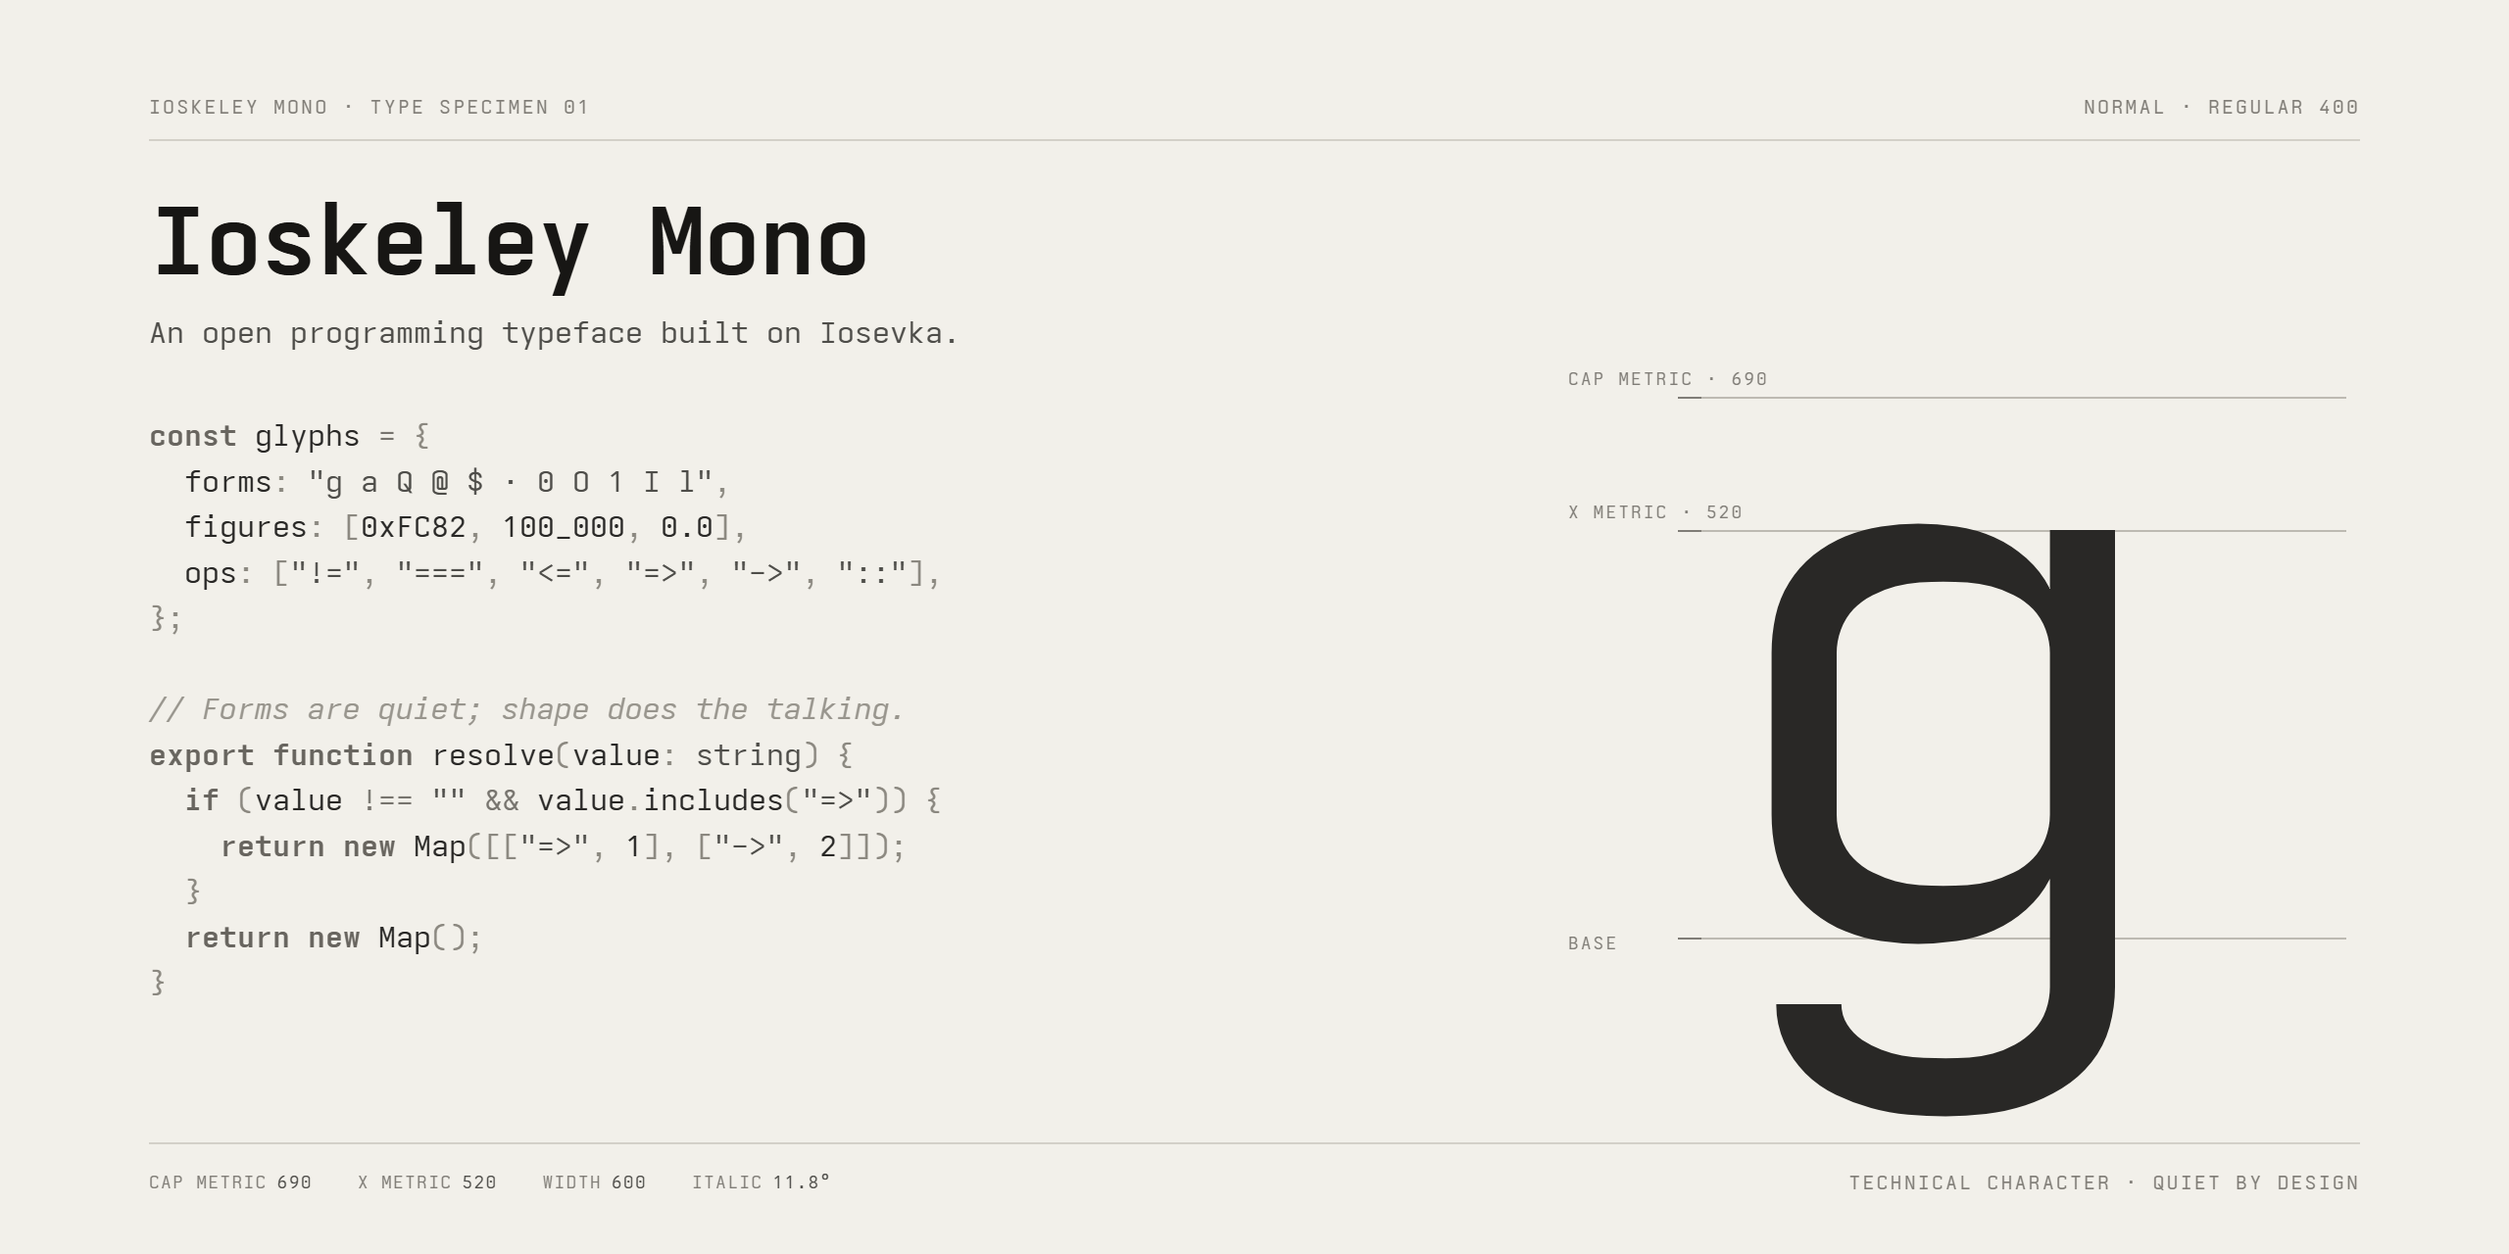
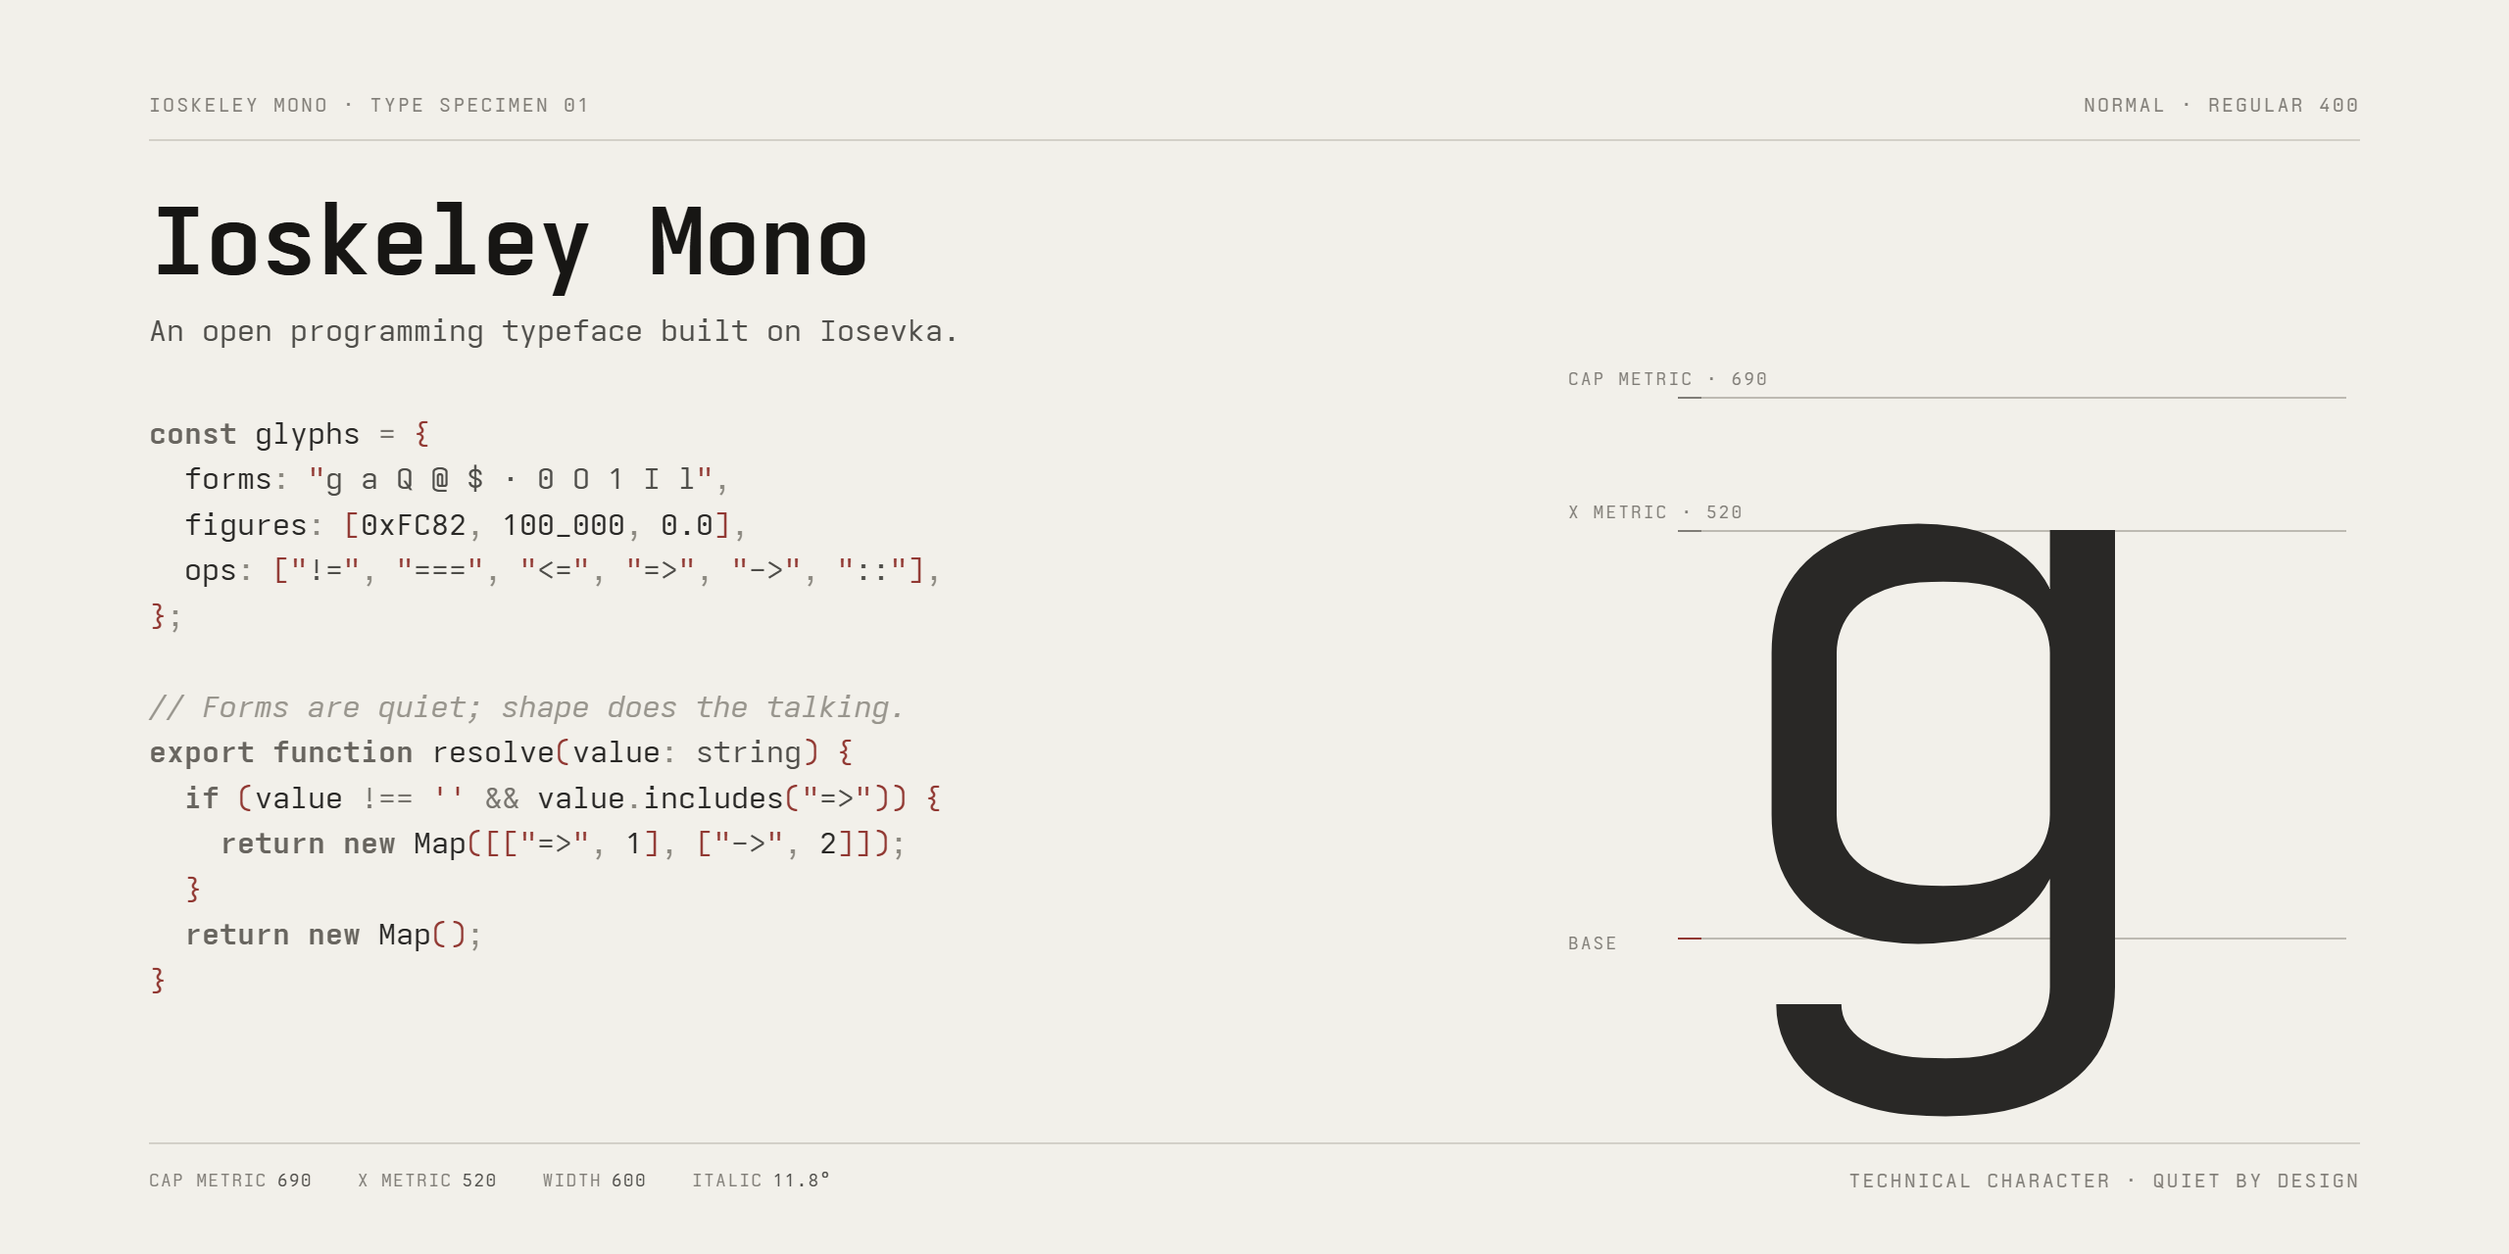
docs: add Ioskeley proof-red signature
Lock Proof Red as the identity's one chromatic exception. Structural
punctuation ({ } [ ] ( ) " ' ) takes the accent in the branded Social
Preview specimen, alongside the single baseline registration tick on the
measurement canvas. Commas, colons and semicolons, and every content role,
stay monochrome.

The Origins comparison plates remain purely monochrome so the typeface
study carries no unrelated colour variable.

diff --git a/artwork/social-preview.html b/artwork/social-preview.html
@@ -45,6 +45,10 @@
     .keyword { color: var(--keyword); font-weight: 700; }
     .operator { color: var(--operator); }
     .punctuation { color: var(--punctuation); }
+    /* Proof Red is an exception to the monochrome hierarchy, never a second
+       palette. Only structural punctuation takes it; the content a delimiter
+       encloses keeps its normal monochrome role. */
+    .punctuation.proof-red { color: var(--proof-red); }
     .comment { color: var(--comment); font-style: italic; }
     .measure { width: 405px; height: 465px; align-self: center; z-index: 0; }
     /* The measurement diagram is drawn to a canvas, not to SVG <text>. html2canvas
@@ -74,19 +78,19 @@
           <section class="copy">
             <h2 class="title">Ioskeley Mono</h2>
             <p class="tagline">An open programming typeface built on Iosevka.</p>
-            <pre class="code"><span class="keyword">const</span> <span class="identifier">glyphs</span> <span class="operator">=</span> <span class="punctuation">{</span>
-  <span class="identifier">forms</span><span class="punctuation">:</span> <span class="secondary">"g a Q @ $ · 0 O 1 I l"</span><span class="punctuation">,</span>
-  <span class="identifier">figures</span><span class="punctuation">:</span> <span class="punctuation">[</span><span class="identifier">0xFC82</span><span class="punctuation">,</span> <span class="identifier">100_000</span><span class="punctuation">,</span> <span class="identifier">0.0</span><span class="punctuation">]</span><span class="punctuation">,</span>
-  <span class="identifier">ops</span><span class="punctuation">:</span> <span class="punctuation">[</span><span class="secondary">"!="</span><span class="punctuation">,</span> <span class="secondary">"==="</span><span class="punctuation">,</span> <span class="secondary">"&lt;="</span><span class="punctuation">,</span> <span class="secondary">"=&gt;"</span><span class="punctuation">,</span> <span class="secondary">"-&gt;"</span><span class="punctuation">,</span> <span class="secondary">"::"</span><span class="punctuation">]</span><span class="punctuation">,</span>
-<span class="punctuation">}</span><span class="punctuation">;</span>
+            <pre class="code"><span class="keyword">const</span> <span class="identifier">glyphs</span> <span class="operator">=</span> <span class="punctuation proof-red">{</span>
+  <span class="identifier">forms</span><span class="punctuation">:</span> <span class="punctuation proof-red">"</span><span class="secondary">g a Q @ $ · 0 O 1 I l</span><span class="punctuation proof-red">"</span><span class="punctuation">,</span>
+  <span class="identifier">figures</span><span class="punctuation">:</span> <span class="punctuation proof-red">[</span><span class="identifier">0xFC82</span><span class="punctuation">,</span> <span class="identifier">100_000</span><span class="punctuation">,</span> <span class="identifier">0.0</span><span class="punctuation proof-red">]</span><span class="punctuation">,</span>
+  <span class="identifier">ops</span><span class="punctuation">:</span> <span class="punctuation proof-red">[</span><span class="punctuation proof-red">"</span><span class="secondary">!=</span><span class="punctuation proof-red">"</span><span class="punctuation">,</span> <span class="punctuation proof-red">"</span><span class="secondary">===</span><span class="punctuation proof-red">"</span><span class="punctuation">,</span> <span class="punctuation proof-red">"</span><span class="secondary">&lt;=</span><span class="punctuation proof-red">"</span><span class="punctuation">,</span> <span class="punctuation proof-red">"</span><span class="secondary">=&gt;</span><span class="punctuation proof-red">"</span><span class="punctuation">,</span> <span class="punctuation proof-red">"</span><span class="secondary">-&gt;</span><span class="punctuation proof-red">"</span><span class="punctuation">,</span> <span class="punctuation proof-red">"</span><span class="secondary">::</span><span class="punctuation proof-red">"</span><span class="punctuation proof-red">]</span><span class="punctuation">,</span>
+<span class="punctuation proof-red">}</span><span class="punctuation">;</span>
 
 <span class="comment">// Forms are quiet; shape does the talking.</span>
-<span class="keyword">export function</span> <span class="identifier">resolve</span><span class="punctuation">(</span>value<span class="punctuation">:</span> <span class="secondary">string</span><span class="punctuation">)</span> <span class="punctuation">{</span>
-  <span class="keyword">if</span> <span class="punctuation">(</span>value <span class="operator">!==</span> <span class="secondary">""</span> <span class="operator">&amp;&amp;</span> value<span class="punctuation">.</span>includes<span class="punctuation">(</span><span class="secondary">"=&gt;"</span><span class="punctuation">))</span> <span class="punctuation">{</span>
-    <span class="keyword">return</span> <span class="keyword">new</span> <span class="identifier">Map</span><span class="punctuation">([[</span><span class="secondary">"=&gt;"</span><span class="punctuation">,</span> <span class="identifier">1</span><span class="punctuation">]</span><span class="punctuation">,</span> <span class="punctuation">[</span><span class="secondary">"-&gt;"</span><span class="punctuation">,</span> <span class="identifier">2</span><span class="punctuation">]])</span><span class="punctuation">;</span>
-  <span class="punctuation">}</span>
-  <span class="keyword">return</span> <span class="keyword">new</span> <span class="identifier">Map</span><span class="punctuation">()</span><span class="punctuation">;</span>
-<span class="punctuation">}</span></pre>
+<span class="keyword">export function</span> <span class="identifier">resolve</span><span class="punctuation proof-red">(</span>value<span class="punctuation">:</span> <span class="secondary">string</span><span class="punctuation proof-red">)</span> <span class="punctuation proof-red">{</span>
+  <span class="keyword">if</span> <span class="punctuation proof-red">(</span>value <span class="operator">!==</span> <span class="punctuation proof-red">'</span><span class="punctuation proof-red">'</span> <span class="operator">&amp;&amp;</span> value<span class="punctuation">.</span>includes<span class="punctuation proof-red">(</span><span class="punctuation proof-red">"</span><span class="secondary">=&gt;</span><span class="punctuation proof-red">"</span><span class="punctuation proof-red">)</span><span class="punctuation proof-red">)</span> <span class="punctuation proof-red">{</span>
+    <span class="keyword">return</span> <span class="keyword">new</span> <span class="identifier">Map</span><span class="punctuation proof-red">(</span><span class="punctuation proof-red">[</span><span class="punctuation proof-red">[</span><span class="punctuation proof-red">"</span><span class="secondary">=&gt;</span><span class="punctuation proof-red">"</span><span class="punctuation">,</span> <span class="identifier">1</span><span class="punctuation proof-red">]</span><span class="punctuation">,</span> <span class="punctuation proof-red">[</span><span class="punctuation proof-red">"</span><span class="secondary">-&gt;</span><span class="punctuation proof-red">"</span><span class="punctuation">,</span> <span class="identifier">2</span><span class="punctuation proof-red">]</span><span class="punctuation proof-red">]</span><span class="punctuation proof-red">)</span><span class="punctuation">;</span>
+  <span class="punctuation proof-red">}</span>
+  <span class="keyword">return</span> <span class="keyword">new</span> <span class="identifier">Map</span><span class="punctuation proof-red">(</span><span class="punctuation proof-red">)</span><span class="punctuation">;</span>
+<span class="punctuation proof-red">}</span></pre>
           </section>
           <div class="measure" role="img" aria-label="Ioskeley single-storey g shown against the declared cap, x-height and baseline metrics">
             <canvas class="measure-canvas" width="810" height="930"></canvas>
@@ -103,12 +107,15 @@
 
   <script>
     /* `primary` carries body ink; `title` is the rare-emphasis tone used only by
-       the product title. `punctuation` is applied in the Origins code studies;
-       the `selection` role from the identity token table is not yet used by any
-       production plate, so it is not defined here. */
+       the product title. `proof-red` is reserved for structural punctuation and
+       the single baseline registration tick, and is deliberately absent from the
+       Origins comparison plates, which stay purely monochrome so that a typeface
+       comparison carries no unrelated colour variable. The `selection` role from
+       the identity token table is not used by any production plate, so it is not
+       defined here. */
     const palettes = {
-      dark: { name: "Dark", canvas: "#101010", primary: "#D8D5CE", secondary: "#B8B5AF", grammar: "#7E7C77", keyword: "#74726E", operator: "#74726E", punctuation: "#686763", comment: "#5F5D58", title: "#ECE9E2", rule: "#343330", guide: "#4A4843", file: "SocialPreview.png" },
-      light: { name: "Light", canvas: "#F2F0EA", primary: "#292826", secondary: "#4E4D49", grammar: "#807D77", keyword: "#68655F", operator: "#77746E", punctuation: "#8B8880", comment: "#98958D", title: "#171614", rule: "#D3D0C8", guide: "#BDBAB2", file: "SocialPreview-Light.png" }
+      dark: { name: "Dark", canvas: "#101010", primary: "#D8D5CE", secondary: "#B8B5AF", grammar: "#7E7C77", keyword: "#74726E", operator: "#74726E", punctuation: "#686763", comment: "#5F5D58", "proof-red": "#B04A43", title: "#ECE9E2", rule: "#343330", guide: "#4A4843", file: "SocialPreview.png" },
+      light: { name: "Light", canvas: "#F2F0EA", primary: "#292826", secondary: "#4E4D49", grammar: "#807D77", keyword: "#68655F", operator: "#77746E", punctuation: "#8B8880", comment: "#98958D", "proof-red": "#913832", title: "#171614", rule: "#D3D0C8", guide: "#BDBAB2", file: "SocialPreview-Light.png" }
     };
 
     const REQUIRED_FACES = [
@@ -187,8 +194,11 @@
         ctx.moveTo(MEASURE.lineX1, guide.y + .5); ctx.lineTo(MEASURE.lineX2, guide.y + .5);
         ctx.stroke();
       }
-      ctx.strokeStyle = ink('grammar');
+      // The baseline tick is the plate's one registration mark and takes Proof
+      // Red; the cap and x-height ticks stay grammar grey, so the highlight reads
+      // as a deliberate reference to the baseline rather than a general tint.
       for (const guide of guides) {
+        ctx.strokeStyle = guide.below ? ink('proof-red') : ink('grammar');
         ctx.beginPath();
         ctx.moveTo(MEASURE.tickX1, guide.y + .5); ctx.lineTo(MEASURE.tickX2, guide.y + .5);
         ctx.stroke();

diff --git a/docs/VISUAL_IDENTITY.md b/docs/VISUAL_IDENTITY.md
@@ -1,8 +1,9 @@
 # Ioskeley visual identity
 
 Ioskeley is its own typeface identity: a monochrome, typography-led technical
-publication. **Grammar recedes; content remains.** The font—not a brand hue—is
-the identifying color. Preserve generous negative space, precise alignment,
+publication, with Proof Red as a single, strictly governed exception.
+**Grammar recedes; content remains.** The font—not a brand hue—is the
+identifying color. Preserve generous negative space, precise alignment,
 large/small type contrast, and only a few deliberate rules. Avoid UI panels,
 editor chrome, gradients, glows, decorative grids, and hue-based syntax.
 
@@ -18,6 +19,7 @@ editor chrome, gradients, glows, decorative grids, and hue-based syntax.
 | Operators | `#74726E` | `#77746E` |
 | Punctuation | `#686763` | `#8B8880` |
 | Comments | `#5F5D58` italic | `#98958D` italic |
+| Proof Red | `#B04A43` | `#913832` |
 | Rare emphasis | `#ECE9E2` | `#171614` |
 | Rule | `#343330` | `#D3D0C8` |
 | Guide | `#4A4843` | `#BDBAB2` |
@@ -25,7 +27,8 @@ editor chrome, gradients, glows, decorative grids, and hue-based syntax.
 
 Keep emphasis rare. Use primary/secondary for identifiers and meaningful values;
 use grammar tones for keywords, operators, and punctuation. In light mode grammar
-moves toward the paper. Do not add a branding hue by default.
+moves toward the paper. Proof Red is the only non-neutral colour in the system and
+is governed separately below; no other branding hue is permitted.
 
 Comments use the real italic face in both modes, never a synthesised oblique.
 Light-mode punctuation and comments sit closer to primary than in the previous
@@ -34,6 +37,54 @@ revision so that a 14–15 px italic comment stays readable on `#F2F0EA`.
 `Selection` is a reserved role: no production plate uses it yet, so the artwork
 generators do not define it. If a plate ever needs a selection state, use this
 token rather than inventing a new one.
+
+## Proof Red
+
+**Monochrome carries the information. Proof Red marks structure.**
+
+Proof Red is an exception, not a second palette. It exists because Ioskeley is a
+programming typeface, where delimiter and punctuation forms are part of the
+visual character. Keep it scarce enough that it keeps its meaning: if red appears
+everywhere, it marks nothing.
+
+### Where it may appear
+
+- Branded code specimens, on structural punctuation only.
+- One small technical proof or registration mark per specimen. The approved
+  Social Preview uses the baseline registration tick, drawn on the measurement
+  canvas; the cap and x-height ticks stay grammar grey so the highlight reads as a
+  deliberate reference to the baseline.
+- Selected-glyph indicators, and restrained active or interactive state on the
+  website where it carries real meaning (current specimen control, current
+  selection).
+
+### Where it may not appear
+
+Not a general styling device. Do not use it for headings, large borders, card
+backgrounds, paragraph emphasis, filled buttons, generic hover decoration,
+ornamental marks, or warnings and errors unless the red is semantically an error.
+A dense run of red punctuation, or red applied to commas, colons, or semicolons,
+stops reading as structure and becomes a syntax theme.
+
+### Structural punctuation set
+
+Accented: `{ } [ ] ( ) " " ' '`.
+
+Not accented by default: `,` `:` `;`, keywords, operators, identifiers, numbers,
+comments, string contents, and member-access periods.
+
+The punctuation itself takes the colour; the content it encloses keeps its normal
+monochrome role, so `"!="` shows a red delimiter around monochrome content. Proof
+Red is presentation applied in HTML/CSS. It is not a font feature and must never be
+described as the typeface colouring punctuation.
+
+### Branded specimens versus analytical plates
+
+Origins-01, Origins-02 and Origins-03 are analytical comparison evidence, not
+branded specimen artwork. They stay **monochrome**. Ioskeley punctuation must not
+be accented inside the Berkeley/TX-02 comparison plates, because a colour that
+carries no evidential meaning would become a variable in a study whose only
+purpose is typeface comparison.
 
 ## Typography and specimens
 
